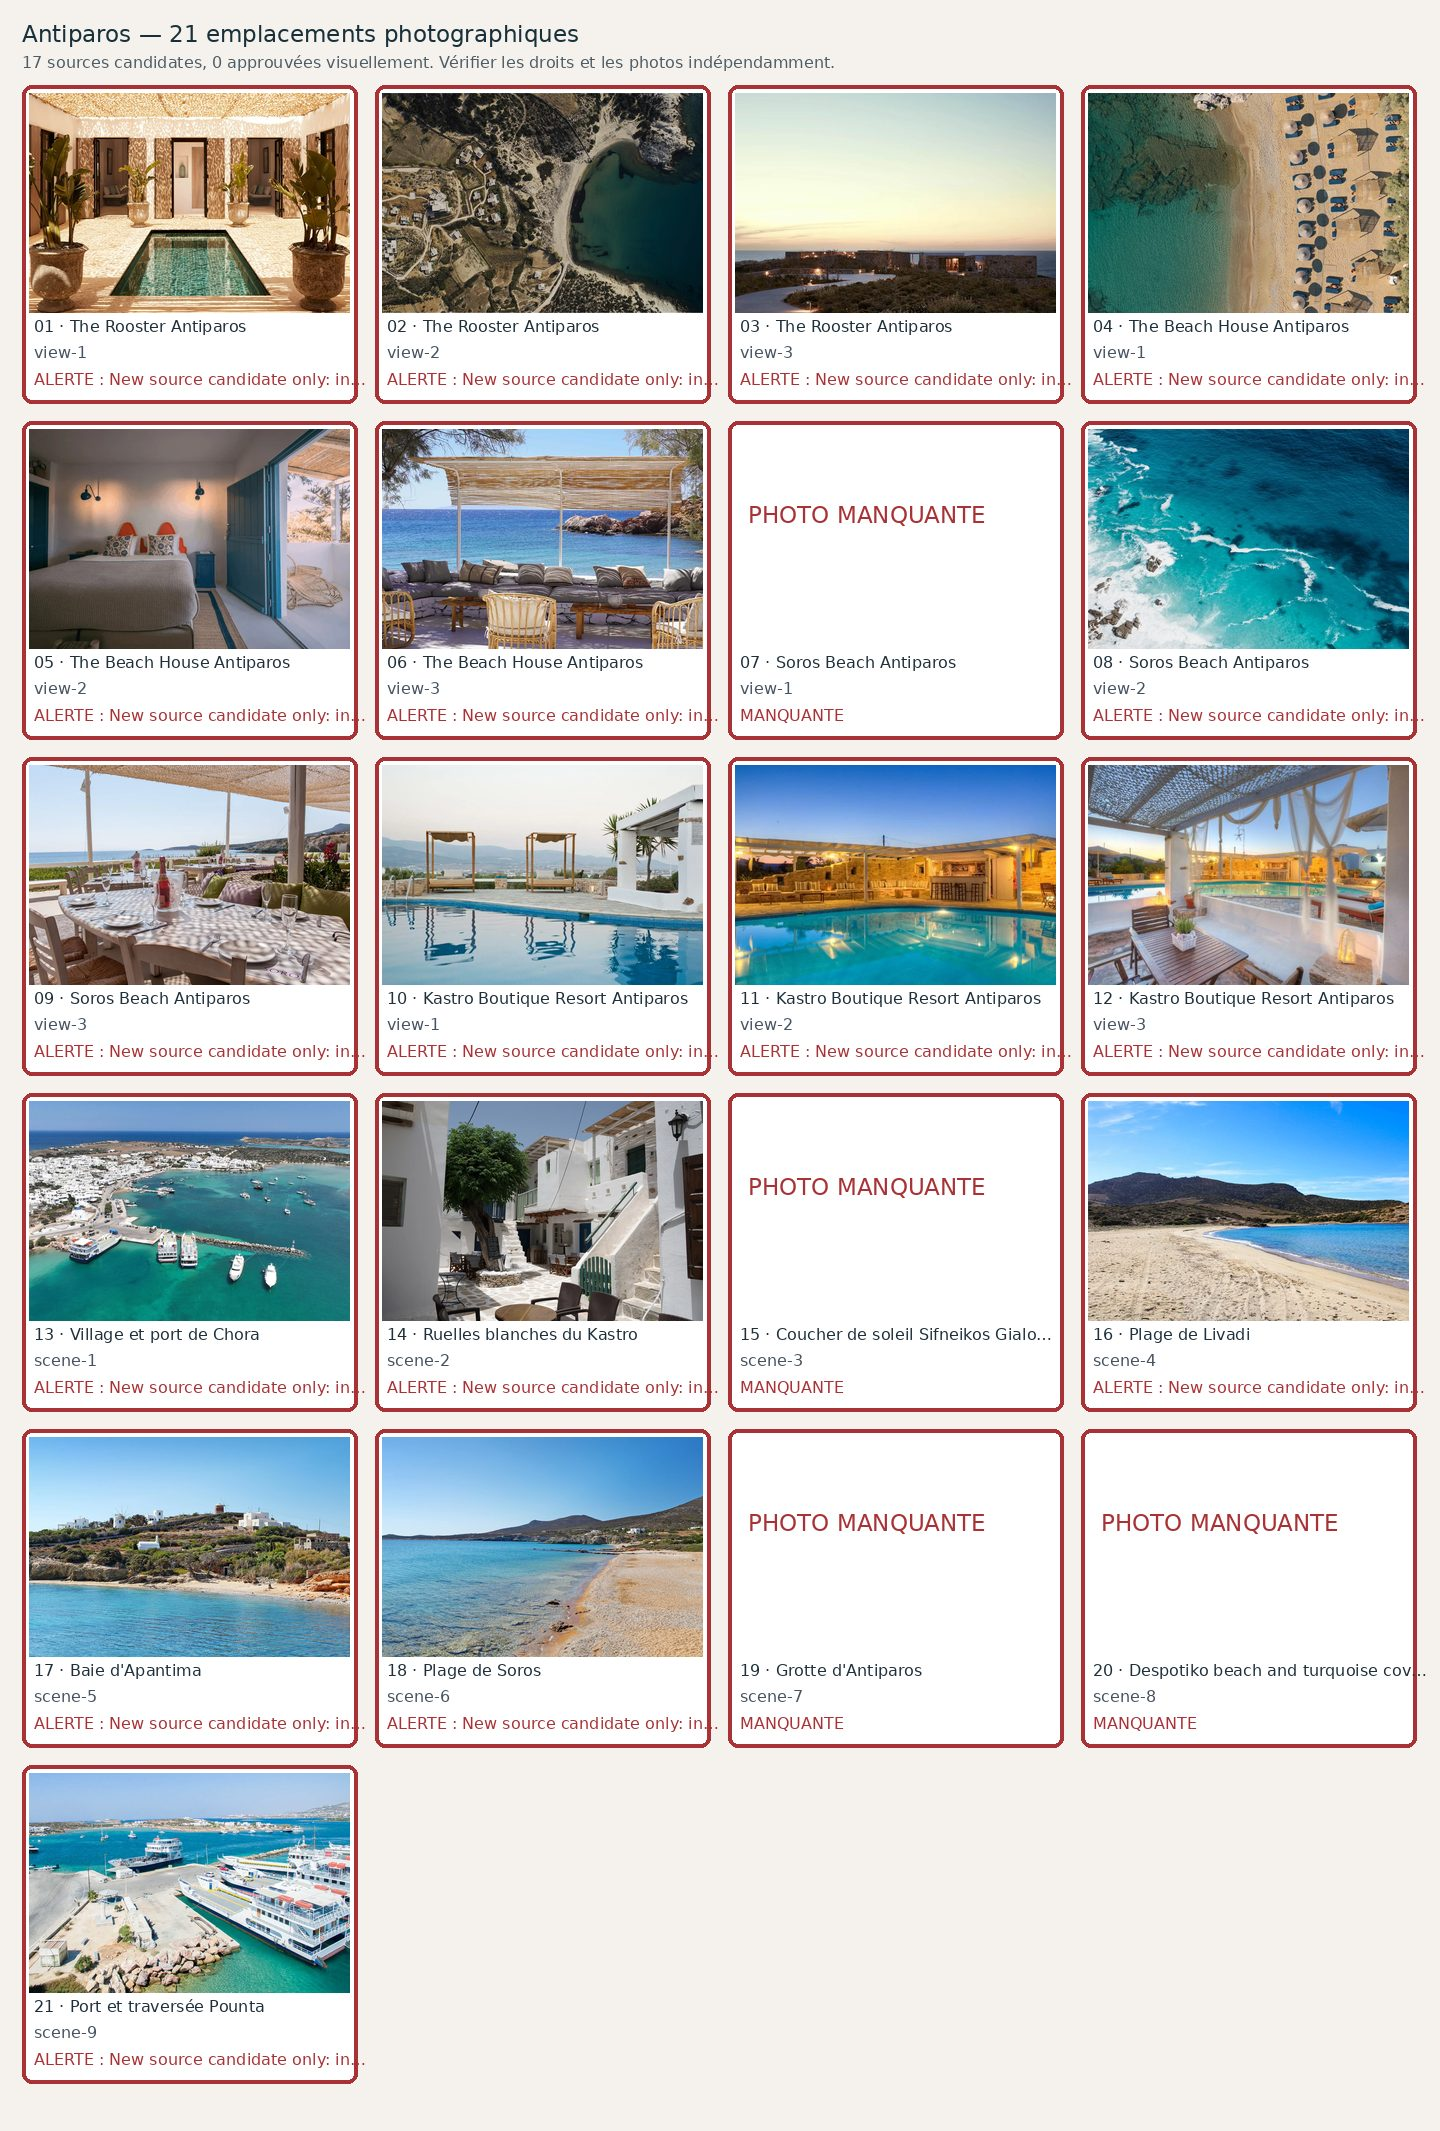
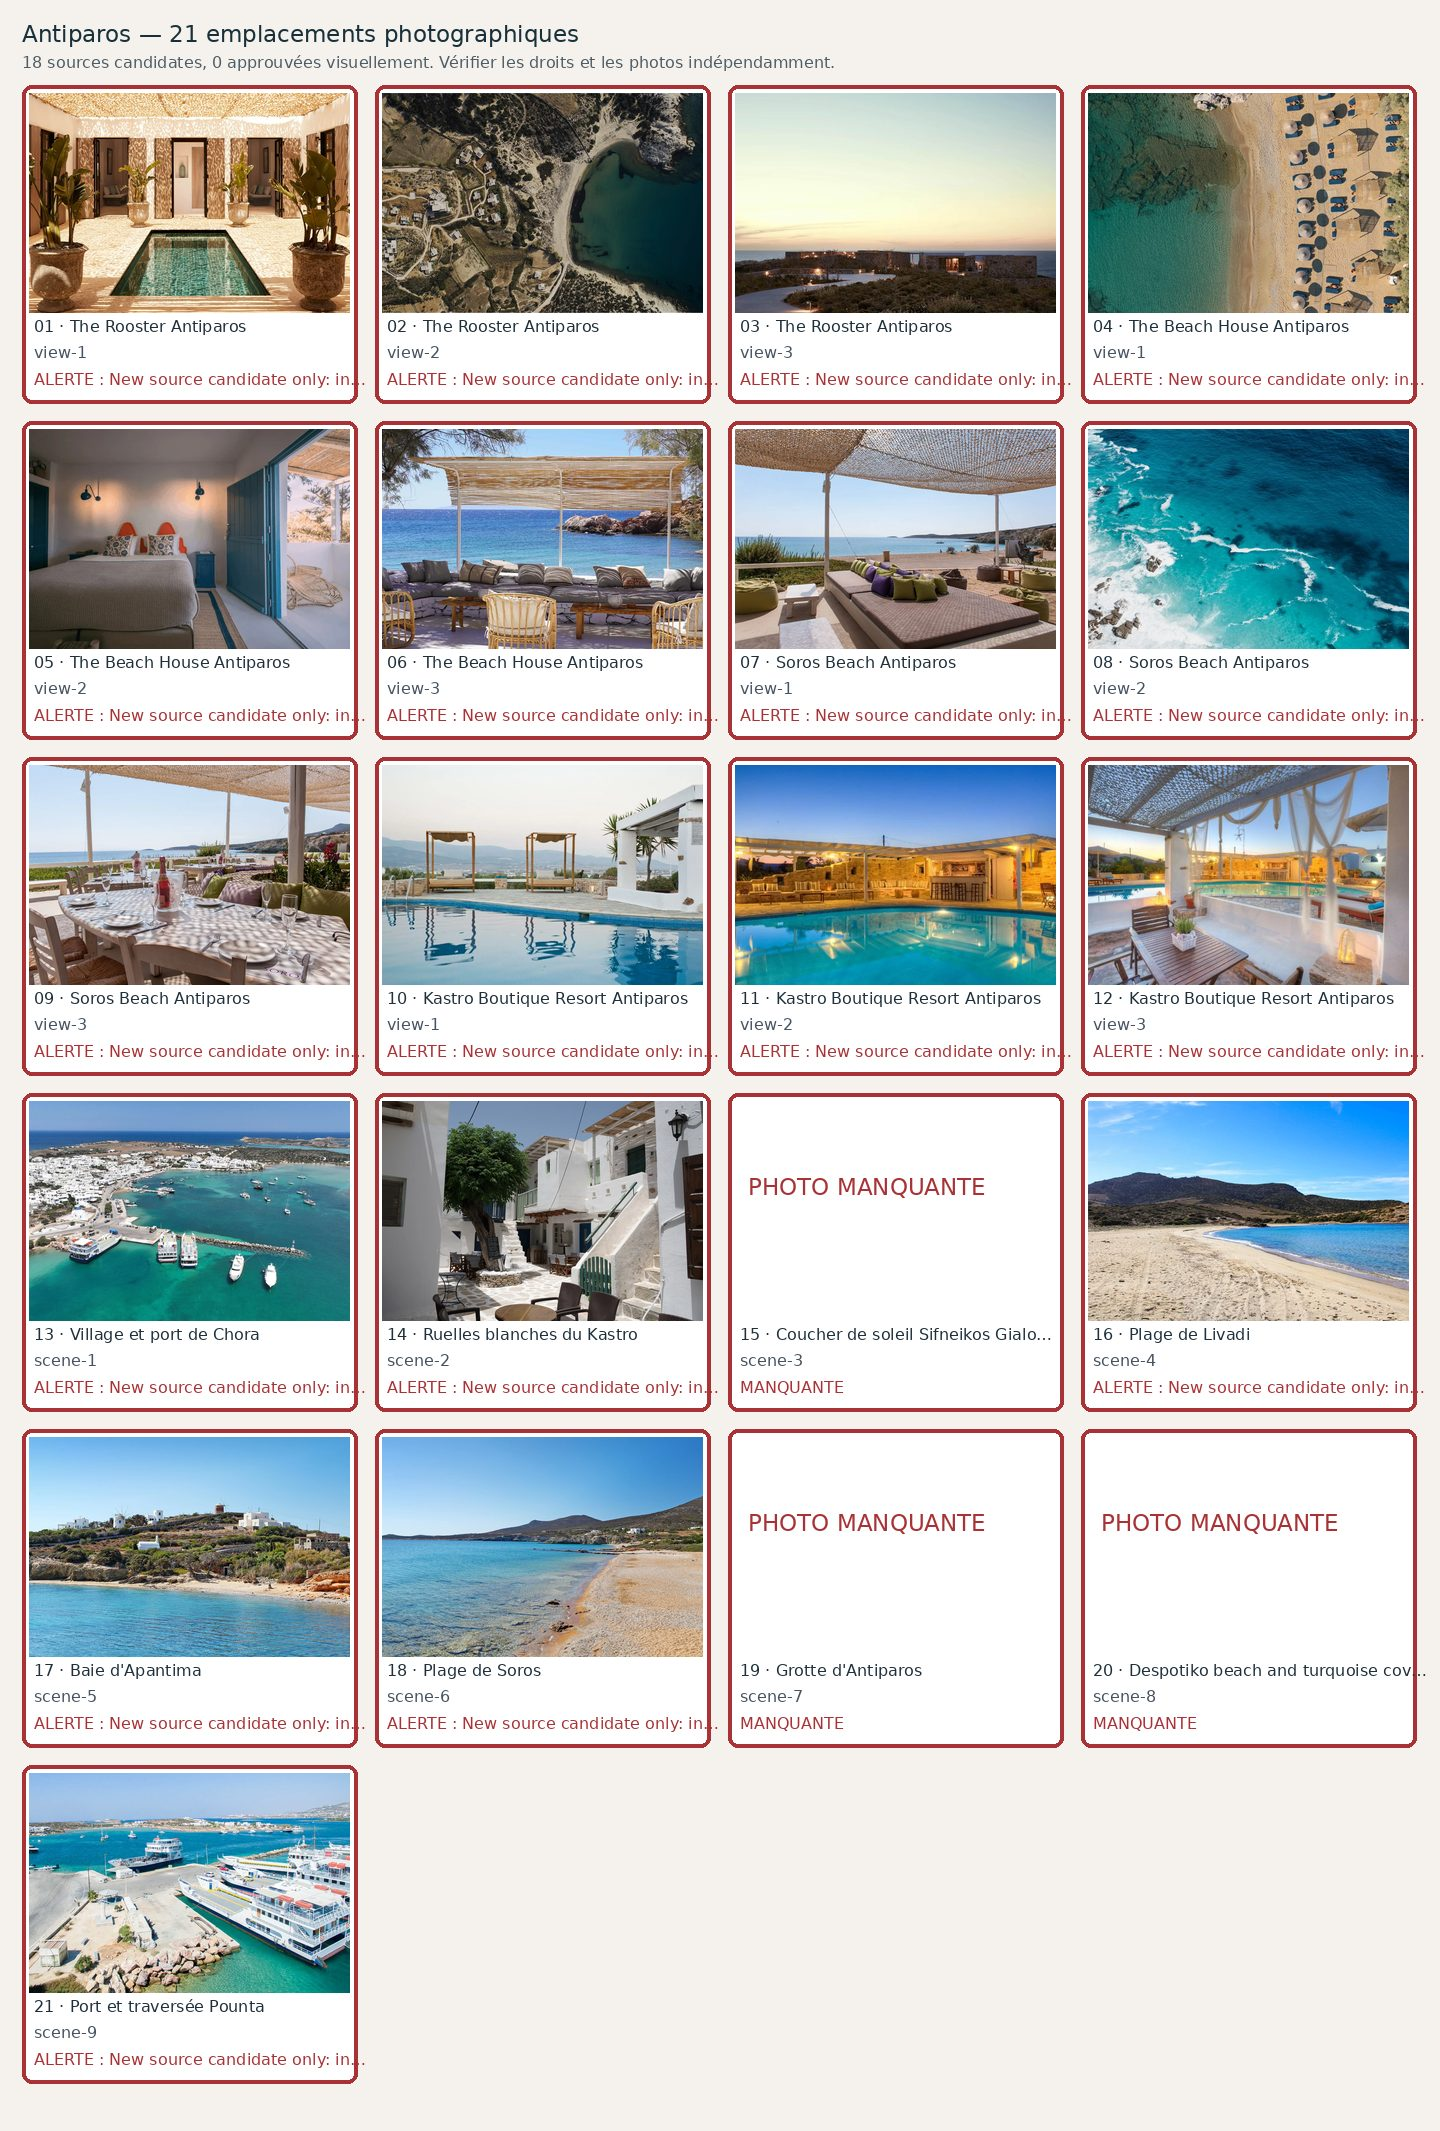
quality(travel): picture contact sheets for mountain guides and Cap Ferrat QA [skip ci]

Changed region(s): [[0.5, 0.1858, 0.75, 0.3407]]

diff --git a/docs/travel-photo-contact-sheets/antiparos.md b/docs/travel-photo-contact-sheets/antiparos.md
@@ -1,6 +1,6 @@
 # Antiparos — 21 photographies à contrôler
 
-**Candidats récupérés : 17/21 · Validés visuellement : 0/21**. Aucune validation ne résulte du seul téléchargement.
+**Candidats récupérés : 18/21 · Validés visuellement : 0/21**. Aucune validation ne résulte du seul téléchargement.
 
 ![Planche de contrôle Antiparos](antiparos.jpg)
 
@@ -12,7 +12,7 @@
 | 4 | The Beach House Antiparos — view-1 | [Source](https://beachhouseantiparos.com/) ·    | Candidate; **New source candidate only: inspect actual photograph, property/geolocation, aesthetic quality and rights before approval.** |
 | 5 | The Beach House Antiparos — view-2 | [Source](https://greciamia.it/products/antiparos-beach-house) · Real renovated Beach House guestroom at Apantima, Cycladic blue and white interior| Candidate; **New source candidate only: inspect actual photograph, property/geolocation, aesthetic quality and rights before approval.** |
 | 6 | The Beach House Antiparos — view-3 | [Source](https://www.turquoiseholidays.co.uk/destinations/mediterranean/greece/paros-antiparos/the-beach-house/) · Actual Beach House Antiparos shaded outdoor lounge beside Apantima cove| Candidate; **New source candidate only: inspect actual photograph, property/geolocation, aesthetic quality and rights before approval.** |
-| 7 | Soros Beach Antiparos — view-1 | [Source](https://www.sorosbeach.gr/) · | Manquante; **Current photo is a promotional fashion model holding branded tote, not the actual hotel or room.** |
+| 7 | Soros Beach Antiparos — view-1 | [Source](https://www.living-postcards.com/blog/soros-beach-seafood-suites) · Real Soros Beach Antiparos beach daybeds with olive-and-purple cushions beneath straw shading, NOT a fashion advertiseme| Candidate; **New source candidate only: inspect actual photograph, property/geolocation, aesthetic quality and rights before approval.** |
 | 8 | Soros Beach Antiparos — view-2 | [Source](https://www.sorosbeach.gr/) ·    | Candidate; **New source candidate only: inspect actual photograph, property/geolocation, aesthetic quality and rights before approval.** |
 | 9 | Soros Beach Antiparos — view-3 | [Source](https://www.living-postcards.com/blog/soros-beach-seafood-suites) · Verified Soros Beach seaside dining terrace with tables and parasols| Candidate; **New source candidate only: inspect actual photograph, property/geolocation, aesthetic quality and rights before approval.** |
 | 10 | Kastro Boutique Resort Antiparos — view-1 | [Source](https://www.myboutiquehotel.com/en/boutique-hotels-antiparos-town/kastro-antiparos.html) · Kastro Boutique Resort genuine pool and cabana daybeds in sunlight| Candidate; **New source candidate only: inspect actual photograph, property/geolocation, aesthetic quality and rights before approval.** |

diff --git a/docs/travel-photo-contact-sheets/README.md b/docs/travel-photo-contact-sheets/README.md
@@ -21,4 +21,4 @@ Les photographies récemment remplacées restent rouges tant qu'elles n'ont pas 
 - [Positano](positano.md) — 21/21 fichiers candidats, 0 alertes ; [ouvrir l'image seule](positano.jpg)
 - [Ravello](ravello.md) — 21/21 fichiers candidats, 0 alertes ; [ouvrir l'image seule](ravello.jpg)
 - [Mykonos](mykonos.md) — 21/21 fichiers candidats, 0 alertes ; [ouvrir l'image seule](mykonos.jpg)
-- [Antiparos](antiparos.md) — 17/21 fichiers candidats, 21 alertes ; [ouvrir l'image seule](antiparos.jpg)
+- [Antiparos](antiparos.md) — 18/21 fichiers candidats, 21 alertes ; [ouvrir l'image seule](antiparos.jpg)
